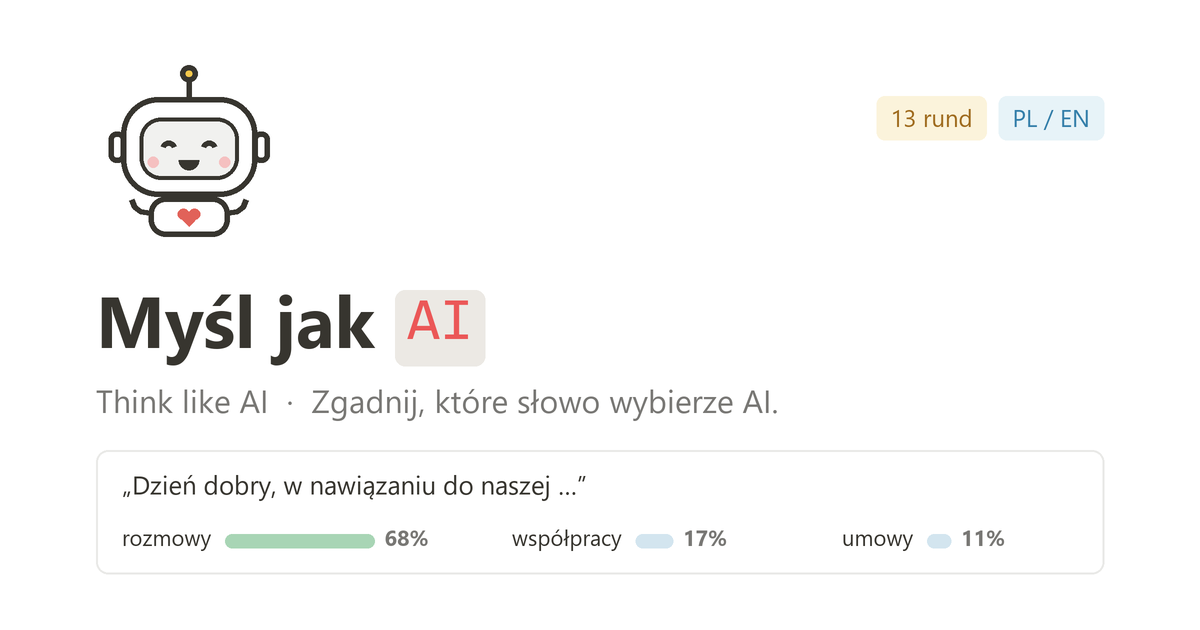
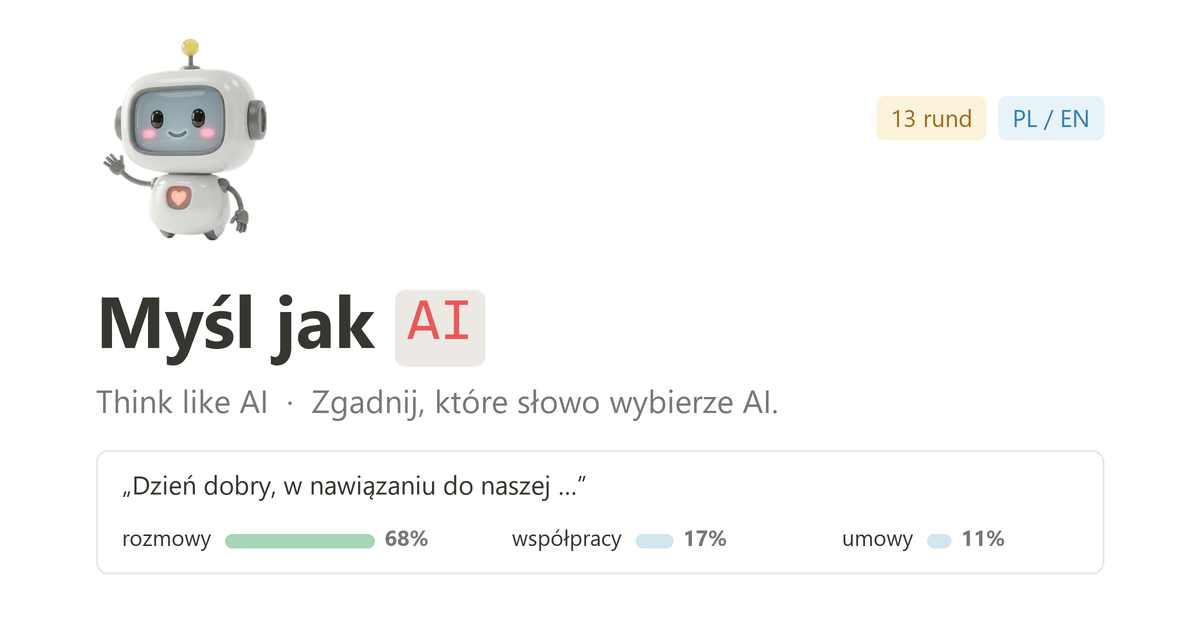
Nowy Bajtek 3D w grze i na obrazku do udostępniania (obrazki z folderu bajtek/ na stronie głównej)

Changed region(s): [[0.0617, 0.0603, 0.2467, 0.3921]]

diff --git a/index.html b/index.html
@@ -91,24 +91,14 @@
   @keyframes fadeIn { from { opacity: 0; transform: translateY(4px); } to { opacity: 1; transform: none; } }
 
   /* Mascot */
-  .mascot { display: block; overflow: visible; }
-  .mascot { transform-origin: 50% 100%; }
-  .mascot .eyes-open { transform-origin: 60px 56px; animation: blink 5s ease-in-out infinite; }
-  .mascot .eyes-happy, .mascot .m-big, .mascot .m-o { display: none; }
-  .mascot[data-mood="happy"] .eyes-open, .mascot[data-mood="happy"] .m-smile { display: none; }
-  .mascot[data-mood="happy"] .eyes-happy, .mascot[data-mood="happy"] .m-big { display: inline; }
+  .mascot { display: block; width: auto; transform-origin: 50% 100%; }
   .mascot[data-mood="happy"] { animation: hop 0.5s ease; }
-  .mascot[data-mood="oops"] .m-smile { display: none; }
-  .mascot[data-mood="oops"] .m-o { display: inline; }
   .mascot[data-mood="oops"] { animation: shake 0.4s ease; }
-  .mascot .pupil { transition: transform 0.3s; }
-  .mascot[data-mood="think"] .pupil { transform: translate(2px, -2px); }
-  @keyframes blink { 0%, 94%, 100% { transform: scaleY(1); } 97% { transform: scaleY(0.1); } }
   @keyframes hop { 50% { transform: translateY(-8px); } }
   @keyframes shake { 25% { transform: translateX(-4px); } 75% { transform: translateX(4px); } }
 
   .guide { display: flex; align-items: center; gap: 12px; margin-bottom: 20px; }
-  .guide .mascot { width: 44px; height: 44px; flex: 0 0 44px; }
+  .guide .mascot { width: auto; height: 52px; flex: 0 0 auto; }
   .bubble { flex: 1; background: var(--gray); border-radius: 6px; padding: 10px 14px; }
   .bubble.ok { background: var(--green-bg); }
   .bubble.no { background: var(--red-bg); }
@@ -225,7 +215,7 @@
   /* Start and end pages */
   .center { text-align: left; }
   .hero { display: flex; flex-direction: column; align-items: flex-start; }
-  .hero .mascot { width: 76px; height: 76px; margin: 12px 0 10px; }
+  .hero .mascot { width: auto; height: 96px; margin: 12px 0 10px; }
   .hero .bubble { flex: none; width: 100%; margin: 0 0 8px; }
   h1 { font-size: 38px; font-weight: 700; line-height: 1.2; letter-spacing: -0.02em; margin: 0 0 14px; }
   h2 { font-size: 20px; font-weight: 600; margin: 28px 0 10px; }
@@ -583,37 +573,18 @@ const ICONS = {
   arrow: "→"
 };
 
-// Bajtek, the little robot guide, drawn as simple line art. Mood: idle, think, happy, oops.
+// Bajtek, the little robot guide of the "AI w pracy" series. Mood: idle, think, happy, oops.
+// The pictures live on the series main page, so every game shows the same Bajtek.
+// Opened locally (as a file or from a local server), the game takes them from the main page folder next to it.
+const LOCAL = location.protocol === "file:" || ["localhost", "127.0.0.1"].includes(location.hostname);
+const BAJTEK = LOCAL ? "../kian09j.github.io/bajtek/" : "https://kian09j.github.io/bajtek/";
+["idle", "think", "happy", "oops"].forEach((m) => { new Image().src = `${BAJTEK}${m}.png`; }); // preload, so mood changes don't flicker
 function mascot(mood = "idle") {
-  const ink = "#37352f";
-  return `
-  <svg class="mascot" data-mood="${mood}" viewBox="0 0 120 120" aria-hidden="true">
-    <g class="body" fill="none" stroke="${ink}" stroke-width="3.5" stroke-linecap="round" stroke-linejoin="round">
-      <path d="M35 99C27 99 24 95 23 90"/>
-      <path d="M85 99C93 99 96 95 97 90"/>
-      <rect x="34" y="88" width="52" height="26" rx="11" fill="#fff"/>
-      <path d="M60 108c-5-3.4-7.6-6-7.6-8.6a3.6 3.6 0 0 1 7.6-1.6a3.6 3.6 0 0 1 7.6 1.6c0 2.6-2.6 5.2-7.6 8.6z" fill="#e16259" stroke-width="2.5"/>
-      <path d="M60 26V14"/>
-      <circle cx="60" cy="9" r="5.5" fill="#f5c84c"/>
-      <rect x="8" y="46" width="11" height="20" rx="5" fill="#fff"/>
-      <rect x="101" y="46" width="11" height="20" rx="5" fill="#fff"/>
-      <rect x="16" y="24" width="88" height="64" rx="24" fill="#fff"/>
-      <rect x="28" y="37" width="64" height="40" rx="14" fill="#f1f1ef" stroke-width="2.5"/>
-    </g>
-    <g class="eyes-open">
-      <ellipse cx="47" cy="56" rx="5" ry="6.5" fill="${ink}"/>
-      <ellipse cx="73" cy="56" rx="5" ry="6.5" fill="${ink}"/>
-      <g class="pupil"><circle cx="48.6" cy="53.6" r="1.7" fill="#fff"/><circle cx="74.6" cy="53.6" r="1.7" fill="#fff"/></g>
-    </g>
-    <g class="eyes-happy" fill="none" stroke="${ink}" stroke-width="3.5" stroke-linecap="round">
-      <path d="M41.5 58q5.5-8 11 0"/><path d="M67.5 58q5.5-8 11 0"/>
-    </g>
-    <circle cx="37" cy="66" r="3.5" fill="#f5c0c0"/>
-    <circle cx="83" cy="66" r="3.5" fill="#f5c0c0"/>
-    <path class="m-smile" d="M55 66q5 4.5 10 0" fill="none" stroke="${ink}" stroke-width="3" stroke-linecap="round"/>
-    <path class="m-big" d="M53.5 64.5q6.5 9 13 0z" fill="${ink}"/>
-    <ellipse class="m-o" cx="60" cy="68" rx="3.5" ry="4" fill="${ink}"/>
-  </svg>`;
+  return `<img class="mascot" data-mood="${mood}" src="${BAJTEK}${mood}.png" alt="" width="248" height="288">`;
+}
+function setMood(el, mood) {
+  el.dataset.mood = mood;
+  el.src = `${BAJTEK}${mood}.png`;
 }
 
 const $ = (id) => document.getElementById(id);
@@ -799,7 +770,7 @@ function reveal(btn) {
   }));
   $("sentence").innerHTML = sentenceHTML(r.sentence, top[0]);
 
-  screen.querySelector(".mascot").dataset.mood = correct ? "happy" : "oops";
+  setMood(screen.querySelector(".mascot"), correct ? "happy" : "oops");
   if (correct) {
     setBubble(r.ok || T.ok, "ok"); // a round can swap the cheerful default for its own message
   } else {
